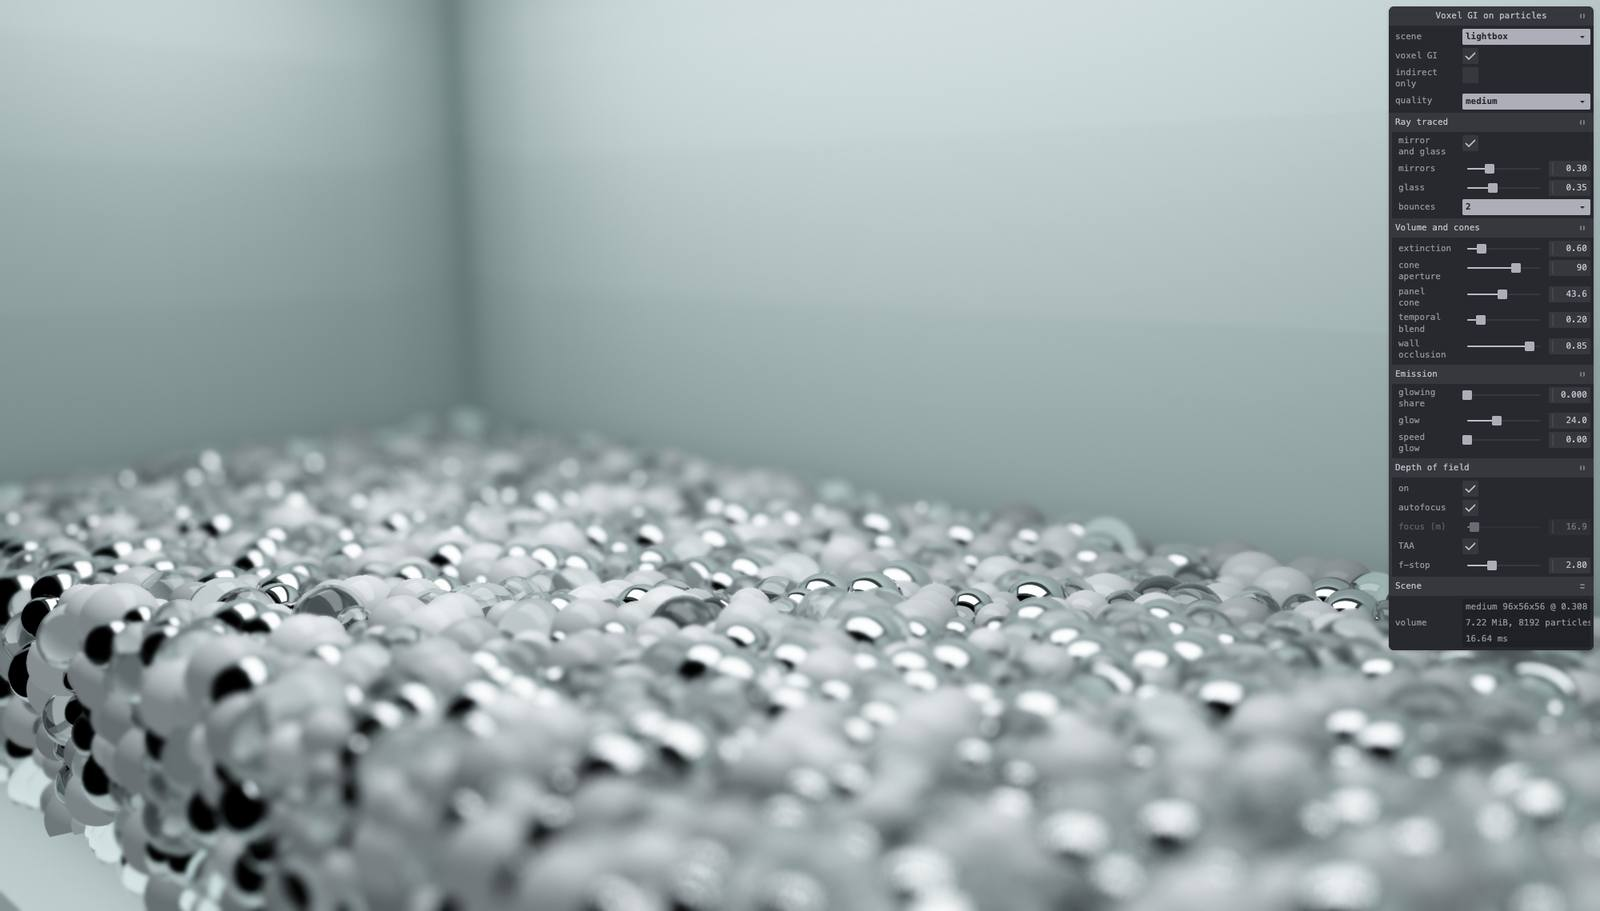
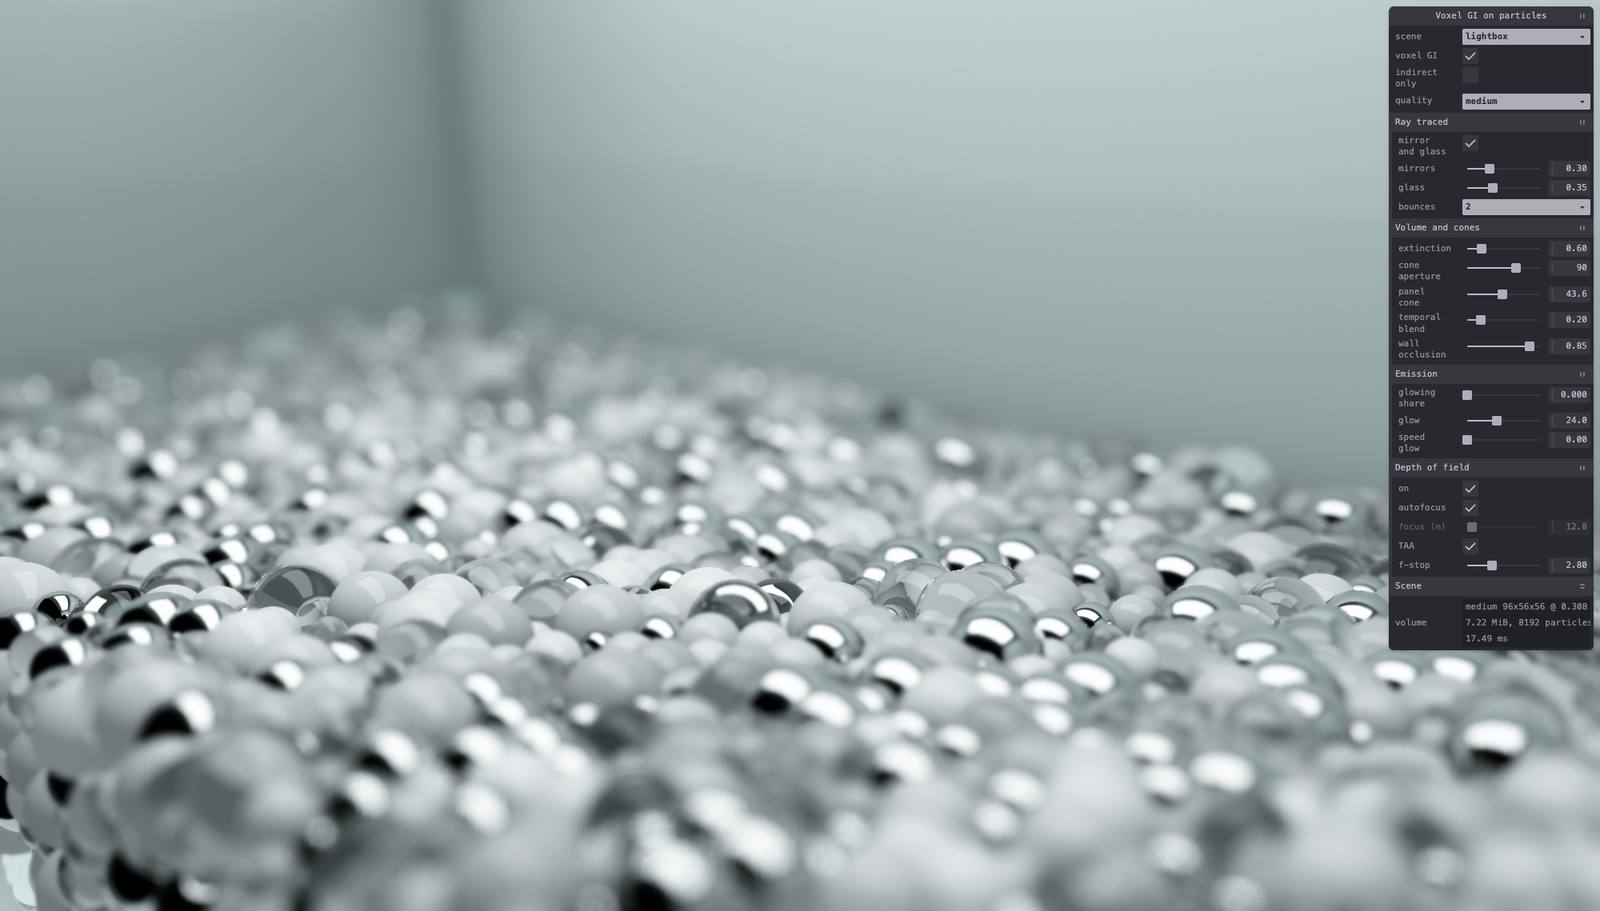
voxel-gi-particles: lightbox default camera from the hand-framed shot

diff --git a/rust/kansei-wasm/demos/voxel-gi-particles/src/lib.rs b/rust/kansei-wasm/demos/voxel-gi-particles/src/lib.rs
@@ -1080,9 +1080,9 @@ pub async fn start(canvas_id: &str) -> Result<(), JsValue> {
     let mut controls = if lightbox {
         // low over the front right of the pile, looking across it at the back left corner (frame by
         // hand, then `camera()` in the console gives these numbers)
-        let mut c = CameraControls::from_canvas(canvas, Vec3::new(0.91, 4.76, -2.44), 18.55).with_mouse_pan(canvas);
-        c.set_azimuth(0.705);
-        c.set_elevation(0.182);
+        let mut c = CameraControls::from_canvas(canvas, Vec3::new(0.323, 3.985, -1.679), 14.72).with_mouse_pan(canvas);
+        c.set_azimuth(0.71);
+        c.set_elevation(0.302);
         c
     } else {
         let mut c = CameraControls::from_canvas(canvas, Vec3::new(0.0, 8.0, 0.0), 58.0 * fit).with_mouse_pan(canvas);
